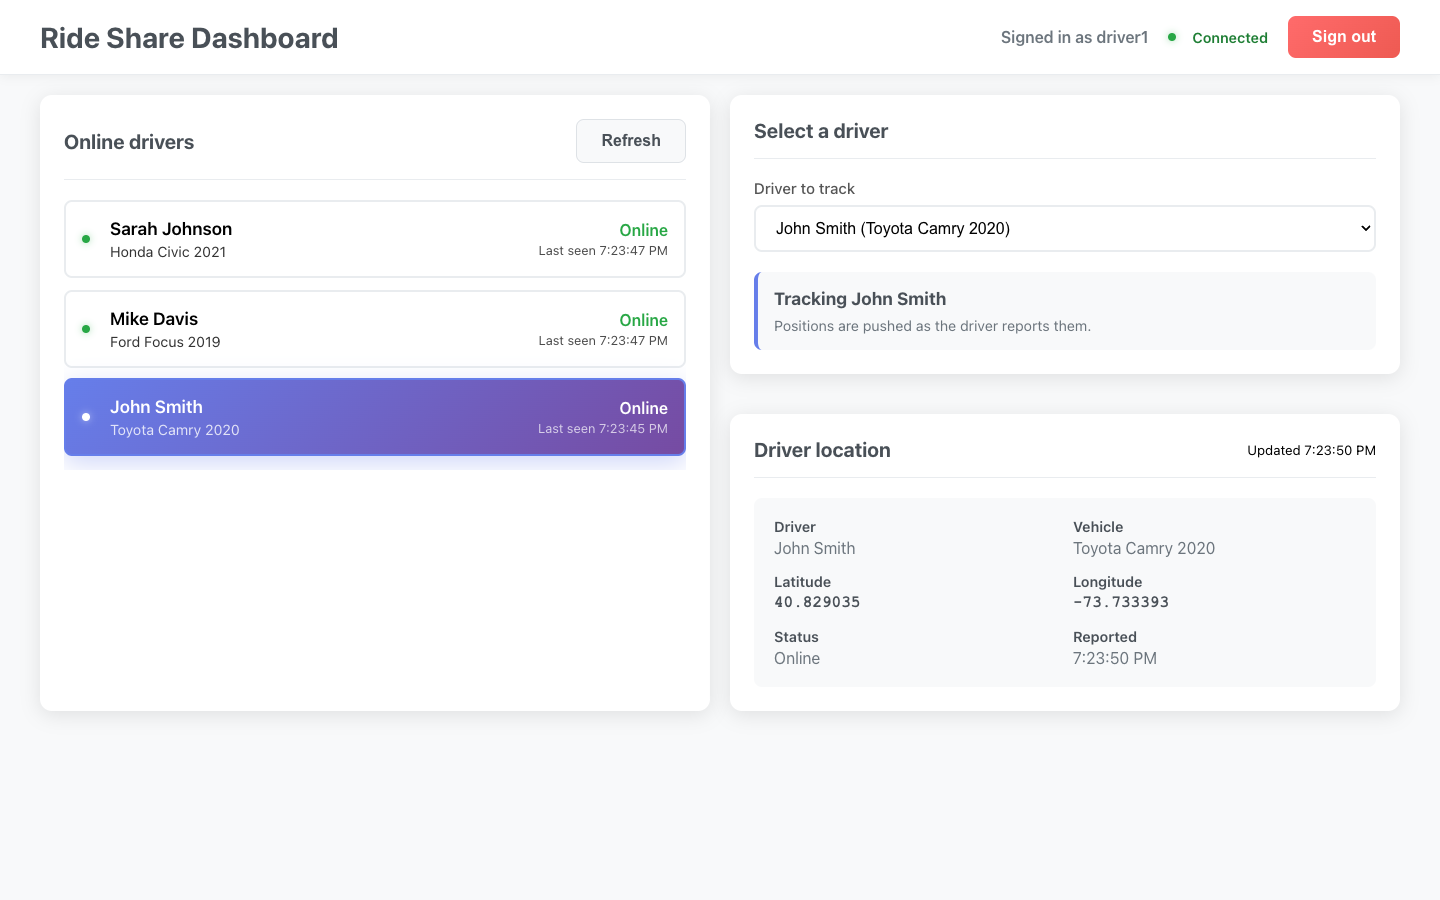
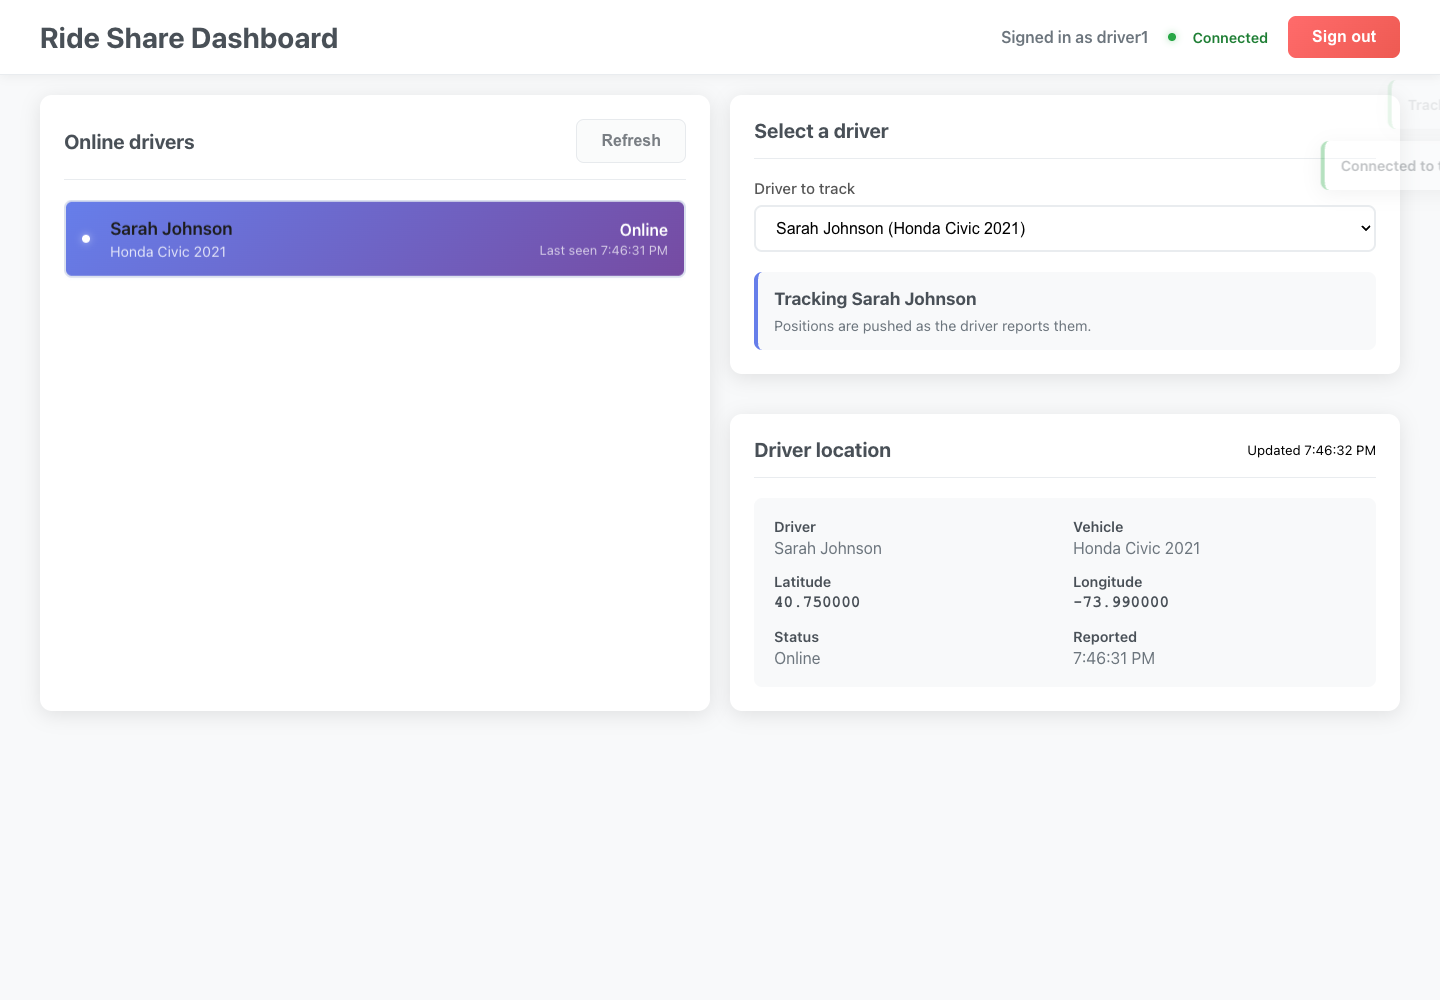
Require live sessions for tracking sockets and revoke dashboard sign-out

diff --git a/tests/realtime.test.js b/tests/realtime.test.js
@@ -132,7 +132,7 @@ test('an invalid location_update is answered with an error and stores nothing', 
 });
 
 test('a dashboard client receives the roster on connect', async () => {
-  const dashboard = open('/dashboard');
+  const dashboard = open('/dashboard', { auth: { token: issueToken('driver1') } });
   const roster = await once(dashboard, 'online_drivers');
 
   assert.deepEqual(roster.drivers, []);
@@ -140,7 +140,7 @@ test('a dashboard client receives the roster on connect', async () => {
 });
 
 test('subscribing to an offline driver yields driver_offline, not driver_data', async () => {
-  const dashboard = open('/dashboard');
+  const dashboard = open('/dashboard', { auth: { token: issueToken('driver1') } });
   await once(dashboard, 'connected');
 
   // Both listeners are attached before the emit: the server answers with
@@ -155,7 +155,7 @@ test('subscribing to an offline driver yields driver_offline, not driver_data', 
 });
 
 test('subscribing without a driver id is an error', async () => {
-  const dashboard = open('/dashboard');
+  const dashboard = open('/dashboard', { auth: { token: issueToken('driver1') } });
   await once(dashboard, 'connected');
 
   dashboard.emit('subscribe', {});
@@ -163,7 +163,7 @@ test('subscribing without a driver id is an error', async () => {
 });
 
 test("a subscribed dashboard receives the driver's live positions", async () => {
-  const dashboard = open('/dashboard');
+  const dashboard = open('/dashboard', { auth: { token: issueToken('driver1') } });
   await once(dashboard, 'connected');
   dashboard.emit('subscribe', { driverId: 'driver1' });
   await once(dashboard, 'subscribed');
@@ -182,7 +182,7 @@ test("a subscribed dashboard receives the driver's live positions", async () => 
 });
 
 test('a dashboard subscribed to another driver is not sent that traffic', async () => {
-  const dashboard = open('/dashboard');
+  const dashboard = open('/dashboard', { auth: { token: issueToken('driver1') } });
   await once(dashboard, 'connected');
   dashboard.emit('subscribe', { driverId: 'driver2' });
   await once(dashboard, 'subscribed');
@@ -203,7 +203,7 @@ test('a dashboard subscribed to another driver is not sent that traffic', async 
 });
 
 test('a driver coming online updates every dashboard roster', async () => {
-  const dashboard = open('/dashboard');
+  const dashboard = open('/dashboard', { auth: { token: issueToken('driver1') } });
   await once(dashboard, 'online_drivers');
 
   const driver = open('/driver/update', { auth: { token: issueToken('driver2') } });
@@ -218,7 +218,7 @@ test('a driver coming online updates every dashboard roster', async () => {
 });
 
 test('a driver disconnecting takes them offline and notifies dashboards', async () => {
-  const dashboard = open('/dashboard');
+  const dashboard = open('/dashboard', { auth: { token: issueToken('driver1') } });
   await once(dashboard, 'connected');
 
   const driver = open('/driver/update', { auth: { token: issueToken('driver1') } });
@@ -236,7 +236,7 @@ test('a driver disconnecting takes them offline and notifies dashboards', async 
 });
 
 test('unsubscribing stops the per-driver stream', async () => {
-  const dashboard = open('/dashboard');
+  const dashboard = open('/dashboard', { auth: { token: issueToken('driver1') } });
   await once(dashboard, 'connected');
   dashboard.emit('subscribe', { driverId: 'driver1' });
   await once(dashboard, 'subscribed');
@@ -262,7 +262,7 @@ test('get_online_drivers and get_driver_info answer on demand', async () => {
   driver.emit('location_update', { lat: 40.68, lng: -73.94 });
   await once(driver, 'location_updated');
 
-  const dashboard = open('/dashboard');
+  const dashboard = open('/dashboard', { auth: { token: issueToken('driver1') } });
   await once(dashboard, 'connected');
 
   dashboard.emit('get_online_drivers');
@@ -278,7 +278,7 @@ test('get_online_drivers and get_driver_info answer on demand', async () => {
 });
 
 test('ping is answered with pong on both namespaces', async () => {
-  const dashboard = open('/dashboard');
+  const dashboard = open('/dashboard', { auth: { token: issueToken('driver1') } });
   await once(dashboard, 'connected');
   dashboard.emit('ping');
   assert.ok(await once(dashboard, 'pong'));
@@ -305,10 +305,46 @@ test('a reconnecting driver is not taken offline by their stale socket', async (
 
   // Closing the *older* connection must not evict the live one. The original
   // handler called removeDriver() unconditionally on every disconnect.
-  const dashboard = open('/dashboard');
+  const dashboard = open('/dashboard', { auth: { token: issueToken('driver1') } });
   await once(dashboard, 'connected');
   first.close();
   await new Promise((resolve) => setTimeout(resolve, 250));
 
   assert.equal(driverStore.isDriverOnline('driver1'), true);
+});
+
+
+test('dashboard rejects missing, forged and revoked credentials', async () => {
+  const revoked = issueToken('driver1');
+  driverStore.removeActiveToken(revoked);
+  for (const token of [undefined, 'forged', revoked]) {
+    const client = open('/dashboard', { auth: { token } });
+    const error = await once(client, 'connect_error');
+    assert.match(error.message, /token/i);
+  }
+});
+
+test('revoked dashboard disconnects before another roster can be read', async () => {
+  const token = issueToken('driver1');
+  const dashboard = open('/dashboard', { auth: { token } });
+  await once(dashboard, 'online_drivers');
+  driverStore.removeActiveToken(token);
+  let received = false;
+  dashboard.on('online_drivers', () => { received = true; });
+  const disconnected = once(dashboard, 'disconnect');
+  dashboard.emit('get_online_drivers');
+  await disconnected;
+  assert.equal(received, false);
+});
+
+
+test('a driver socket cannot publish another location after logout revokes its token', async () => {
+  const token = issueToken('driver2');
+  const driver = open('/driver/update', { auth: { token } });
+  await once(driver, 'connected');
+  driverStore.removeActiveToken(token);
+  const disconnected = once(driver, 'disconnect');
+  driver.emit('location_update', { lat: 40.7, lng: -74 });
+  await disconnected;
+  assert.equal(driverStore.getDriverLocation('driver2'), null);
 });

diff --git a/src/realtime/dashboardNamespace.js b/src/realtime/dashboardNamespace.js
@@ -4,6 +4,7 @@ const config = require('../config/config');
 const driverStore = require('../models/driverStore');
 const driverService = require('../services/driverService');
 const logger = require('../utils/logger');
+const { authenticateSocketToken, authoriseToken } = require('../utils/auth');
 const { driverEvents, DriverEvents } = require('./events');
 
 const NAMESPACE = '/dashboard';
@@ -18,7 +19,7 @@ const driverIdFromRoom = (room) =>
 /**
  * Dashboard-facing namespace.
  *
- * Authentication: none (read-only view; see README limitations).
+ * Authentication: active JWT in handshake.auth.token.
  * Inbound : `subscribe`, `unsubscribe`, `get_online_drivers`, `get_driver_info`, `ping`
  * Outbound: `connected`, `online_drivers`, `driver_data`, `driver_offline`,
  *           `OFFLINE_DRIVER`, `driver_connected`, `driver_disconnected`,
@@ -37,10 +38,19 @@ function registerDashboardNamespace(io, deps = {}) {
   const store = deps.store || driverStore;
   const events = deps.events || driverEvents;
   const namespace = io.of(NAMESPACE);
+  namespace.use(authenticateSocketToken);
+
+  function pruneRevokedSessions() {
+    for (const socket of namespace.sockets.values()) {
+      if (!authoriseToken(socket.token, { store }).ok) socket.disconnect(true);
+    }
+  }
+
 
   /* ------------------------ domain events -> sockets ------------------------ */
 
   const onLocationUpdated = (update) => {
+    pruneRevokedSessions();
     namespace.to(roomFor(update.driverId)).emit('driver_data', {
       driverId: update.driverId,
       profile: update.profile,
@@ -51,6 +61,7 @@ function registerDashboardNamespace(io, deps = {}) {
   };
 
   const onCameOnline = (update) => {
+    pruneRevokedSessions();
     namespace.emit('driver_connected', {
       driverId: update.driverId,
       profile: update.profile,
@@ -61,6 +72,7 @@ function registerDashboardNamespace(io, deps = {}) {
   };
 
   const onWentOffline = (payload) => {
+    pruneRevokedSessions();
     namespace.to(roomFor(payload.driverId)).emit('driver_offline', {
       driverId: payload.driverId,
       message: 'Driver is currently offline or no location data available',
@@ -76,6 +88,7 @@ function registerDashboardNamespace(io, deps = {}) {
   events.on(DriverEvents.WENT_OFFLINE, onWentOffline);
 
   function broadcastRoster() {
+    pruneRevokedSessions();
     namespace.emit('online_drivers', driverService.listOnlineDrivers({ store }));
   }
 
@@ -83,6 +96,7 @@ function registerDashboardNamespace(io, deps = {}) {
 
   // One timer for the whole namespace rather than two per connected client.
   const sweepTimer = setInterval(() => {
+    pruneRevokedSessions();
     for (const room of namespace.adapter.rooms.keys()) {
       const driverId = driverIdFromRoom(room);
       if (!driverId || store.isDriverOnline(driverId)) continue;
@@ -101,6 +115,13 @@ function registerDashboardNamespace(io, deps = {}) {
   /* -------------------------------- sockets --------------------------------- */
 
   namespace.on('connection', (socket) => {
+    socket.use((_packet, next) => {
+      if (!authoriseToken(socket.token, { store }).ok) {
+        socket.disconnect(true);
+        return next(new Error('Session expired or revoked'));
+      }
+      return next();
+    });
     logger.info(`Dashboard client connected: ${socket.id}`);
     let subscribedTo = null;
 

diff --git a/frontend/src/components/Dashboard.js b/frontend/src/components/Dashboard.js
@@ -1,7 +1,7 @@
 import React, { useCallback, useEffect, useRef, useState } from 'react';
 import PropTypes from 'prop-types';
 import io from 'socket.io-client';
-import { DASHBOARD_NAMESPACE_URL } from '../api/config';
+import { API_BASE_URL, DASHBOARD_NAMESPACE_URL } from '../api/config';
 import './Dashboard.css';
 
 const MAX_NOTIFICATIONS = 5;
@@ -22,7 +22,25 @@ function Dashboard({ user, onLogout }) {
   const [connectionStatus, setConnectionStatus] = useState('connecting');
   const [lastUpdate, setLastUpdate] = useState(null);
   const [error, setError] = useState('');
+  const [loggingOut, setLoggingOut] = useState(false);
   const [notifications, setNotifications] = useState([]);
+
+  const signOut = async () => {
+    setLoggingOut(true);
+    try {
+      const response = await fetch(`${API_BASE_URL}/api/logout`, {
+        method: 'POST',
+        headers: { Authorization: `Bearer ${user.token}` },
+        signal: AbortSignal.timeout(8000),
+      });
+      if (!response.ok) throw new Error('Session revocation failed');
+      socketRef.current?.disconnect();
+      onLogout();
+    } catch {
+      setError('Could not sign out on the server. Please try again.');
+      setLoggingOut(false);
+    }
+  };
 
   const socketRef = useRef(null);
   const notificationTimersRef = useRef(new Map());
@@ -49,7 +67,7 @@ function Dashboard({ user, onLogout }) {
   }, []);
 
   useEffect(() => {
-    const socket = io(DASHBOARD_NAMESPACE_URL, { transports: ['websocket', 'polling'] });
+    const socket = io(DASHBOARD_NAMESPACE_URL, { transports: ['websocket', 'polling'], auth: { token: user.token } });
     socketRef.current = socket;
 
     socket.on('connect', () => {
@@ -119,7 +137,7 @@ function Dashboard({ user, onLogout }) {
       socket.disconnect();
       socketRef.current = null;
     };
-  }, [addNotification]);
+  }, [addNotification, user.token]);
 
   const handleDriverSelection = (driverId) => {
     const socket = socketRef.current;
@@ -149,7 +167,7 @@ function Dashboard({ user, onLogout }) {
               <span className="status-dot" aria-hidden="true" />
               {connectionStatus}
             </div>
-            <button type="button" className="btn btn-danger" onClick={onLogout}>
+            <button type="button" className="btn btn-danger" onClick={signOut} disabled={loggingOut}>
               Sign out
             </button>
           </div>

diff --git a/src/realtime/driverNamespace.js b/src/realtime/driverNamespace.js
@@ -2,7 +2,7 @@
 
 const driverStore = require('../models/driverStore');
 const logger = require('../utils/logger');
-const { authenticateSocketToken } = require('../utils/auth');
+const { authenticateSocketToken, authoriseToken } = require('../utils/auth');
 const { recordLocation, markOffline } = require('../services/locationService');
 
 const NAMESPACE = '/driver/update';
@@ -28,6 +28,13 @@ function registerDriverNamespace(io, deps = {}) {
   namespace.use(authenticateSocketToken);
 
   namespace.on('connection', (socket) => {
+    socket.use((_packet, next) => {
+      if (!authoriseToken(socket.token, { store }).ok) {
+        socket.disconnect(true);
+        return next(new Error('Session expired or revoked'));
+      }
+      return next();
+    });
     const { driverId, name: driverName } = socket.user;
 
     // Last connection wins. The id is recorded so a *stale* socket's disconnect

diff --git a/README.md b/README.md
@@ -49,5 +49,31 @@ A `Dockerfile` and `docker-compose.yml` are included but haven't been built or r
 ## Limitations
 
 - Restarting the server loses all positions and tokens, and it can only run as a single instance.
-- Credentials are plain text and the `/dashboard` socket has no auth.
+- Seed credentials are plain text fixtures. Every signed-in demo account can monitor every driver; separate dispatcher roles are not implemented.
 - Simulated positions are random points in a New York bounding box, shown as coordinates (no map).
+
+
+## Location stream boundary
+
+```mermaid
+sequenceDiagram
+    participant Driver as Driver client
+    participant Server as Socket.IO server
+    participant Store as In-memory sessions and positions
+    participant Dashboard as Dashboard client
+    Driver->>Server: JWT handshake, then location_update
+    Server->>Store: Check active session and store location
+    Dashboard->>Server: JWT handshake, then subscribe(driverId)
+    Server-->>Dashboard: Driver room updates
+    Note over Server,Store: Revoked sessions are checked before packets and dashboard broadcasts
+```
+
+Both namespaces require an active token. Dashboard broadcasts drop revoked or
+expired sessions before sending location data, and neither namespace accepts a
+new packet from a revoked session. These are integration tests against real
+Socket.IO connections. The in-memory store remains a one-process demo.
+
+A native browser run verified authenticated tracking and server-side sign-out:
+the same token returned HTTP 401 after signing out.
+[Verification record](docs/native-session-check.json). The backend suite has 93
+tests; the React client currently has no unit test suite.
